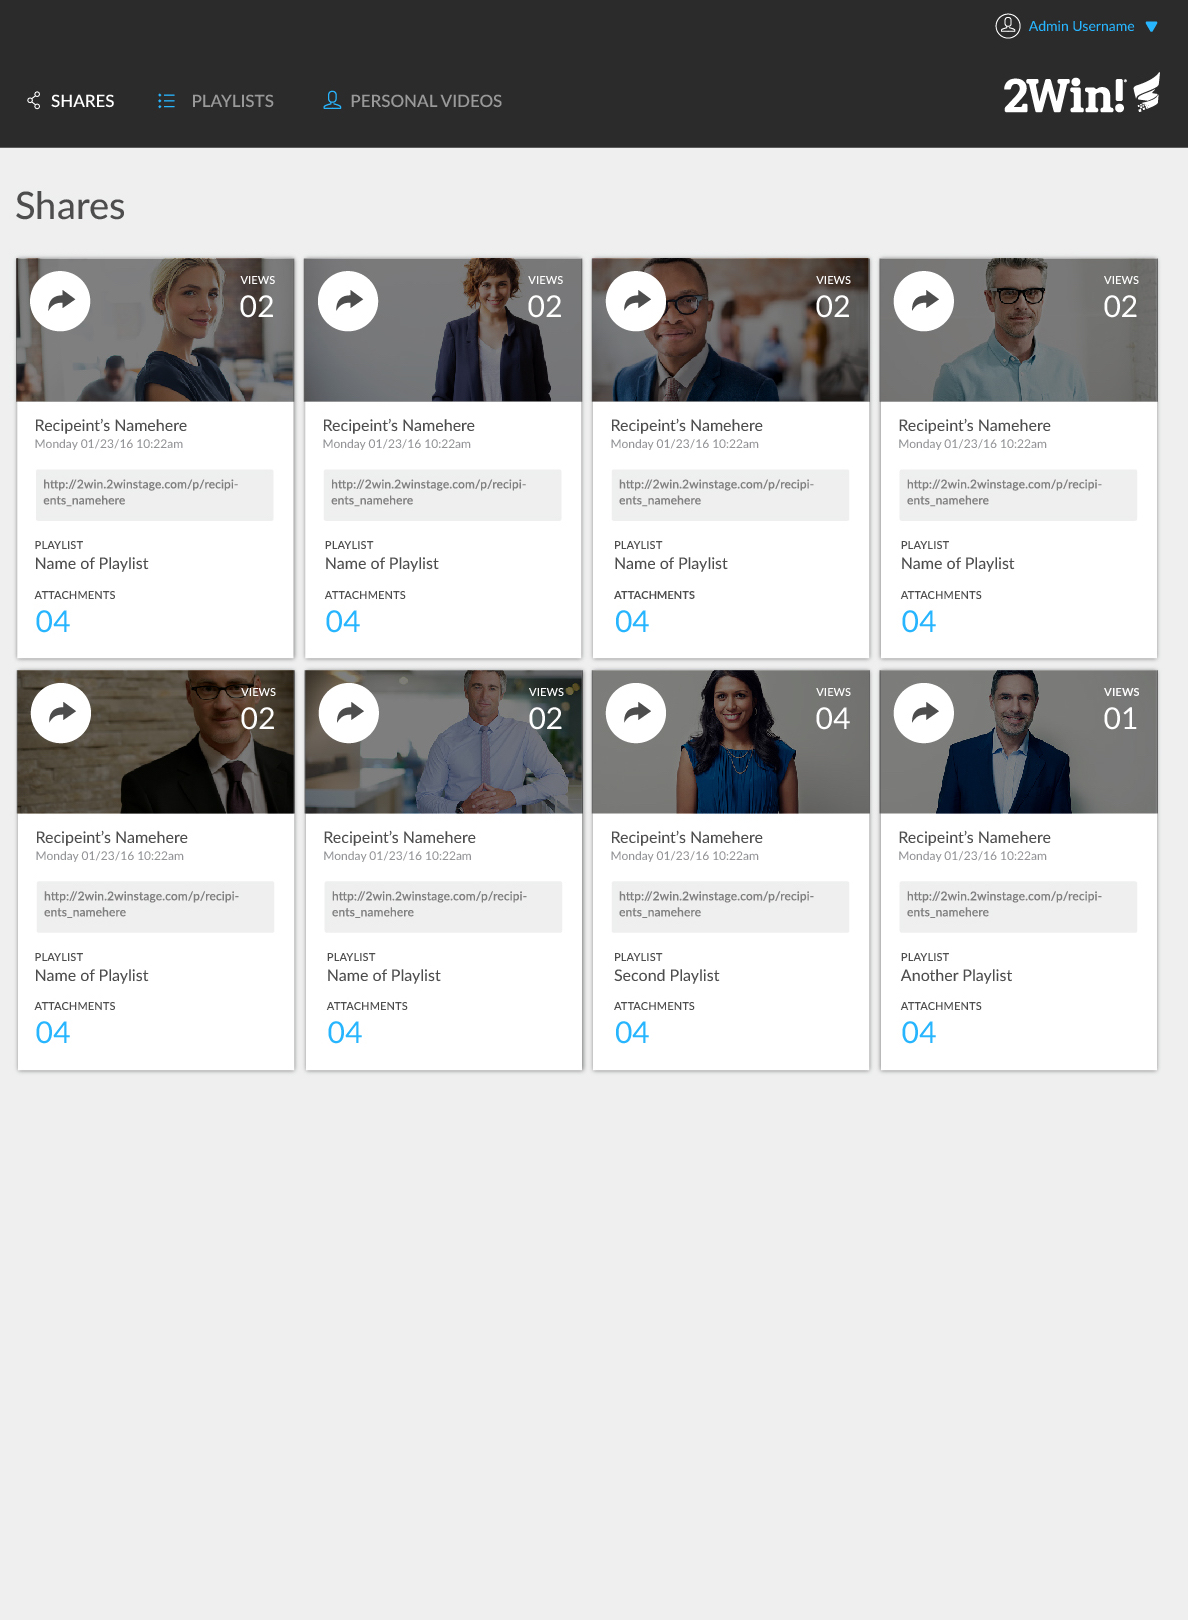
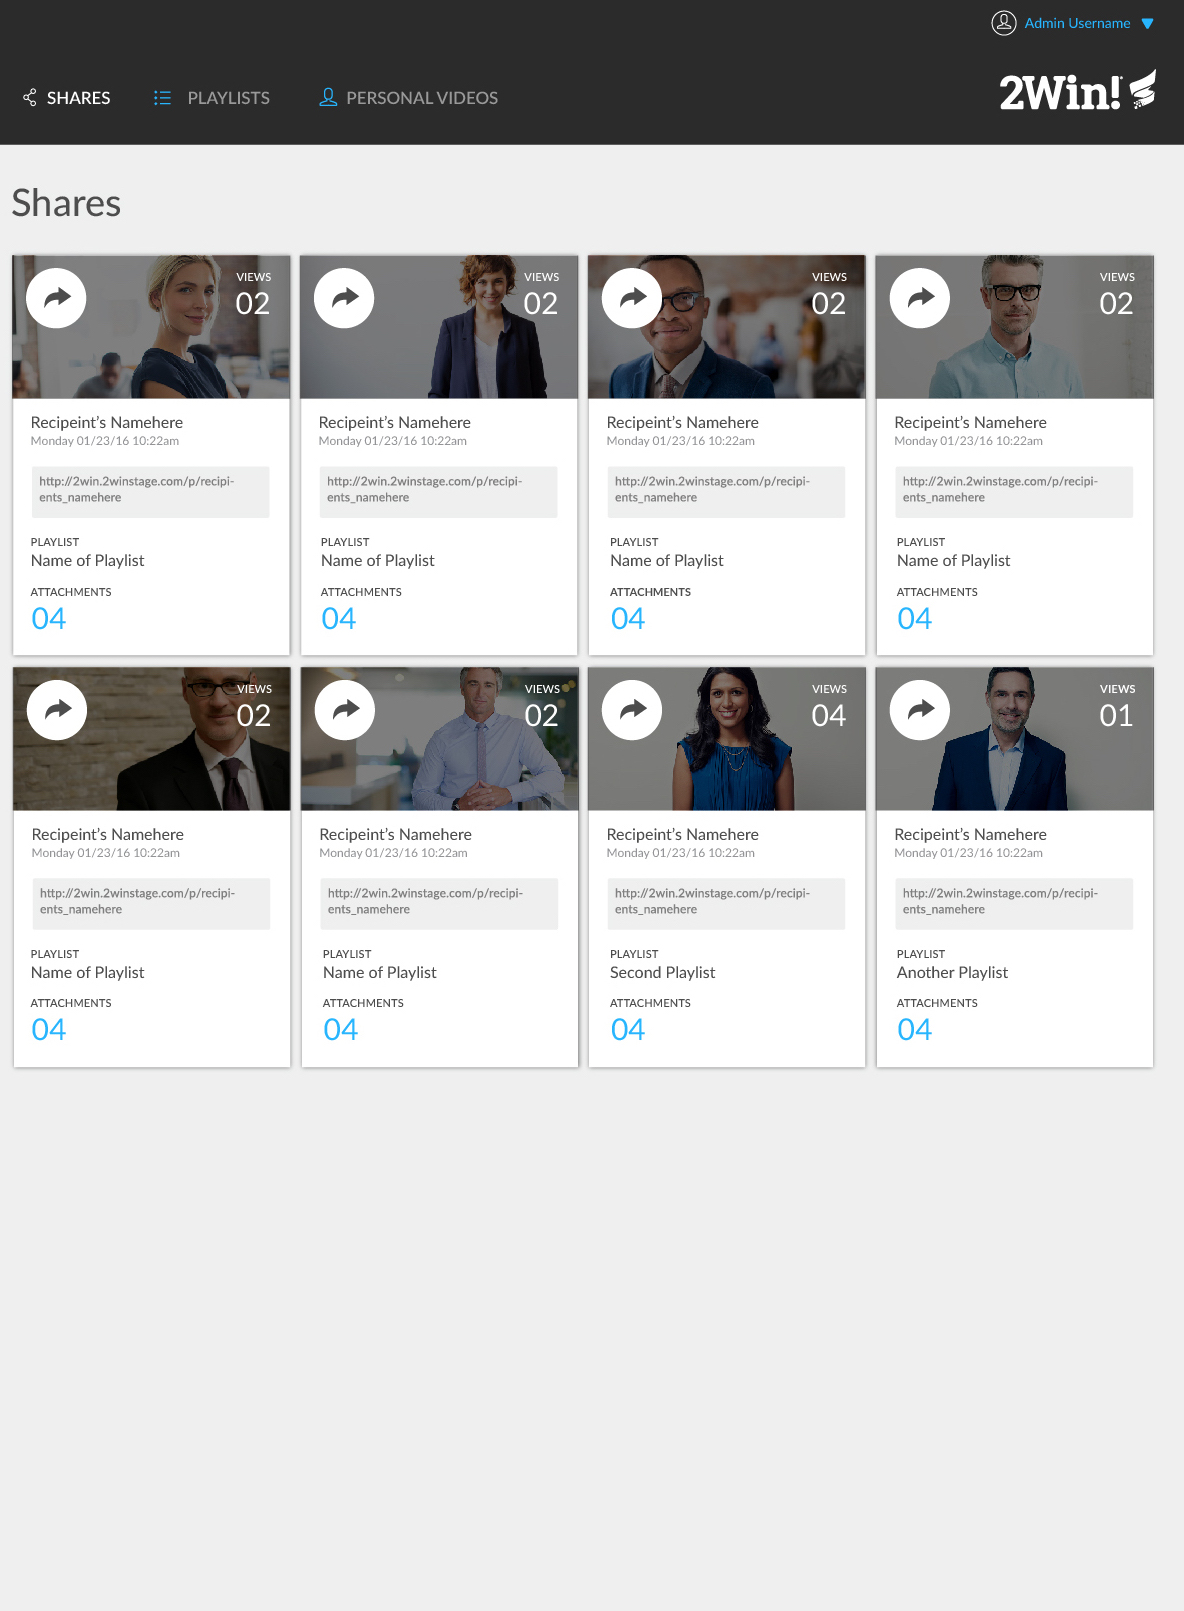
♻  Delete inactive CSS property

diff --git a/src/styles.css b/src/styles.css
@@ -87,7 +87,7 @@ body {
   grid: repeat(2, 15%) / auto-flow;
   grid-gap: 1rem;
   margin: 2.5rem 1rem;
-  margin-right: 2rem;
+  
 }
 
 /* Card styles */
